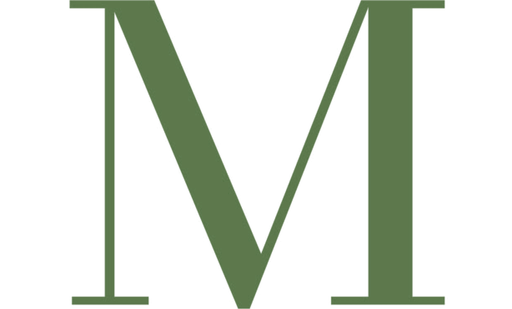
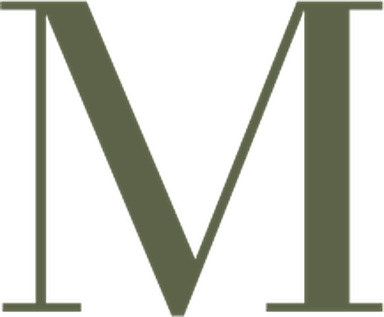
Marca: logotipo oficial e mudanca de nome para Multifuturo Propriedades
O cliente confirmou que o nome comercial passa a ser 'Multifuturo Propriedades'
e enviou o logotipo em PNG com transparencia (o primeiro era CMYK de impressao).

Nome:
- AGENCY_NAME, config/agency.php e os textos de pt e en passam a dizer
  'Multifuturo Propriedades'; nao sobrou nenhuma mencao a 'Multifuturo Imoveis'

Cor:
- o verde oficial e #5D6348. O olive-600 do site era #6B7248 — mais claro e
  mais amarelado. A escala passa a assentar no verde do logotipo, e o contraste
  do texto branco por cima sobe de 4,76:1 para 5,87:1 (melhor, nao pior)
- o painel do backoffice recebe a mesma escala

Logotipo:
- cabecalho: simbolo 'M' ao lado do nome. O logotipo oficial e empilhado e nao
  assenta numa barra de 80px; se o designer tiver versao horizontal, e trocar
  a imagem
- rodape: logotipo completo, invertido para bege sobre o verde escuro
- favicons do site e do painel passam a ser o 'M', incluindo os da raiz de
  public/ que o browser pede por omissao

Teste novo verifica o nome, o simbolo, o favicon e o logotipo do rodape.

diff --git a/resources/css/app.css b/resources/css/app.css
@@ -49,8 +49,9 @@
 /*
  * Tokens de marca. Única fonte de verdade das cores — nos componentes usam-se
  * as utilities geradas (bg-sand-50, text-ink, bg-olive-600…), nunca hex soltos.
- * Pares verificados WCAG AA: ink/sand-50 (14,7:1), sand-50/olive-600 (5,0:1),
- * olive-600/sand-50 (5,0:1), ink-muted/sand-50 (5,1:1). clay-400 NÃO serve para texto (2,9:1).
+ * O olive-600 é o verde exacto do logótipo oficial (#5D6348).
+ * Pares verificados WCAG AA: ink/sand-50 (14,7:1), sand-50/olive-600 (5,9:1),
+ * olive-700/sand-50 (8,0:1), ink-muted/sand-50 (5,1:1). clay-400 NÃO serve para texto (2,9:1).
  */
 @theme {
     --color-*: initial;
@@ -64,9 +65,9 @@
     --color-sand-100: #F2EDE1;
     --color-sand-200: #E5DCC9;
 
-    --color-olive-600: #6B7248;
-    --color-olive-700: #565C39;
-    --color-olive-900: #2F3320;
+    --color-olive-600: #5D6348;
+    --color-olive-700: #4A4F39;
+    --color-olive-900: #282C1E;
 
     --color-ink: #26261F;
     --color-ink-muted: #6F6C60;

diff --git a/app/Providers/Filament/AdminPanelProvider.php b/app/Providers/Filament/AdminPanelProvider.php
@@ -46,26 +46,28 @@ class AdminPanelProvider extends PanelProvider
             ->databaseNotifications()
             ->databaseNotificationsPolling('30s')
             ->login()
-            ->brandName('Multifuturo.')
+            ->brandName('Multifuturo Propriedades')
             ->colors([
                 // Escala azeitona definida à mão: o gerador automático do Filament
-                // produzia tons fluorescentes a partir do nosso hex. Os tons 600/700
-                // são exatamente os da marca (olive-600 / olive-700).
+                // produzia tons fluorescentes a partir do nosso hex. O tom 600 é o
+                // verde exacto do logótipo oficial (#5D6348).
                 'primary' => [
-                    50 => '#F5F6F0',
-                    100 => '#E8EADE',
-                    200 => '#D2D6BF',
-                    300 => '#B4BB99',
-                    400 => '#8F9970',
-                    500 => '#77804F',
-                    600 => '#6B7248',
-                    700 => '#565C39',
-                    800 => '#43482D',
-                    900 => '#2F3320',
-                    950 => '#1B1D12',
+                    50 => '#F4F5EF',
+                    100 => '#E6E8DC',
+                    200 => '#CFD3BC',
+                    300 => '#AFB596',
+                    400 => '#87906C',
+                    500 => '#6C734F',
+                    600 => '#5D6348',
+                    700 => '#4A4F39',
+                    800 => '#393D2B',
+                    900 => '#282C1E',
+                    950 => '#171911',
                 ],
             ])
-            ->favicon(asset('favicon-192.png'))
+            ->brandLogo(asset('images/marca/simbolo.png'))
+            ->brandLogoHeight('2rem')
+            ->favicon(asset('images/marca/favicon-192.png'))
             ->discoverResources(in: app_path('Filament/Resources'), for: 'App\Filament\Resources')
             ->discoverPages(in: app_path('Filament/Pages'), for: 'App\Filament\Pages')
             ->pages([

diff --git a/lang/pt/ui.php b/lang/pt/ui.php
@@ -86,7 +86,7 @@ return [
         'bedrooms' => 'Tipologia',
         'area' => 'Área (m²)',
         'condition' => 'Estado de conservação',
-        'consent_contact' => 'Autorizo a Multifuturo Imóveis a contactar-me sobre este pedido.',
+        'consent_contact' => 'Autorizo a Multifuturo Propriedades a contactar-me sobre este pedido.',
         'consent_marketing' => 'Quero receber novidades e imóveis selecionados por email.',
         'privacy_notice' => 'Os dados são tratados pela :name apenas para responder ao seu pedido, conforme a :link.',
         'privacy_link' => 'política de privacidade',
@@ -209,7 +209,7 @@ return [
         'featured' => 'Imóveis em destaque',
         'featured_all' => 'Ver todos os imóveis',
         'about' => 'Sobre a Multifuturo',
-        'about_text_1' => 'A Multifuturo Imóveis é uma agência de mediação imobiliária licenciada, com uma equipa dedicada a acompanhar cada cliente de forma próxima e transparente.',
+        'about_text_1' => 'A Multifuturo Propriedades é uma agência de mediação imobiliária licenciada, com uma equipa dedicada a acompanhar cada cliente de forma próxima e transparente.',
         'about_text_2' => 'Conhecemos o mercado local, avaliamos com rigor e tratamos de todo o processo — da primeira visita à escritura — para que comprar, vender ou arrendar seja simples e seguro.',
         'about_cta' => 'Conheça a agência',
         'why' => 'Porquê a Multifuturo',

diff --git a/lang/en/ui.php b/lang/en/ui.php
@@ -87,7 +87,7 @@ return [
         'bedrooms' => 'Bedrooms',
         'area' => 'Area (m²)',
         'condition' => 'Condition',
-        'consent_contact' => 'I allow Multifuturo Imóveis to contact me about this request.',
+        'consent_contact' => 'I allow Multifuturo Propriedades to contact me about this request.',
         'consent_marketing' => 'I would like to receive news and selected properties by email.',
         'privacy_notice' => 'Your data is processed by :name solely to answer your request, in line with our :link.',
         'privacy_link' => 'privacy policy',
@@ -210,7 +210,7 @@ return [
         'featured' => 'Featured properties',
         'featured_all' => 'View all properties',
         'about' => 'About Multifuturo',
-        'about_text_1' => 'Multifuturo Imóveis is a licensed estate agency with a team dedicated to supporting every client closely and transparently.',
+        'about_text_1' => 'Multifuturo Propriedades is a licensed estate agency with a team dedicated to supporting every client closely and transparently.',
         'about_text_2' => 'We know the local market, we value with rigour, and we handle the whole process — from the first viewing to the deed — so that buying, selling or renting is simple and safe.',
         'about_cta' => 'Meet the agency',
         'why' => 'Why Multifuturo',

diff --git a/resources/views/components/site/header.blade.php b/resources/views/components/site/header.blade.php
@@ -11,8 +11,15 @@
 @endphp
 <header class="border-b border-sand-200 bg-sand-50" x-data="{ open: false }" @keydown.escape.window="open = false">
     <div class="container-site flex h-20 items-center justify-between gap-8">
-        <a href="{{ route('home') }}" class="font-serif text-2xl font-normal tracking-tight text-ink" aria-label="{{ config('agency.name') }}">
-            Multifuturo<span class="text-olive-600">.</span>
+        {{-- O logótipo oficial é empilhado (M sobre o nome) e não assenta numa
+             barra de 80px: aqui usa-se o símbolo ao lado do nome. Se o designer
+             tiver uma versão horizontal, é trocar esta imagem. --}}
+        <a href="{{ route('home') }}" class="flex items-center gap-3 text-ink" aria-label="{{ config('agency.name') }}">
+            <img src="{{ asset('images/marca/simbolo.png') }}" alt="" width="384" height="317"
+                 class="h-9 w-auto sm:h-10">
+            <span class="font-serif text-base leading-tight tracking-[0.14em] uppercase sm:text-lg">
+                Multifuturo<span class="block text-[0.62em] tracking-[0.2em] text-olive-600">Propriedades</span>
+            </span>
         </a>
 
         <nav class="ml-auto hidden items-center gap-8 lg:flex" aria-label="{{ __('ui.nav.main') }}">

diff --git a/tests/Feature/LegalTest.php b/tests/Feature/LegalTest.php
@@ -9,7 +9,7 @@ use Illuminate\Support\Facades\Blade;
 
 beforeEach(function () {
     config([
-        'agency.name' => 'Multifuturo Imóveis Lda',
+        'agency.name' => 'Multifuturo Propriedades',
         'agency.ami' => '12345',
         'agency.address' => 'Rua Exemplo 1, 2750-000 Cascais',
         'agency.email' => 'geral@example.test',
@@ -106,4 +106,21 @@ it('a versão da política acompanha a alteração do texto', function () {
     expect(config('agency.privacy_policy_version'))->toBe('2026-08-24');
 
     $this->get(route('privacy'))->assertOk()->assertSee('2026-08-24');
+});
+
+it('o site usa o nome e o logótipo oficiais', function () {
+    config(['agency.name' => 'Multifuturo Propriedades']);
+
+    $html = $this->get(route('home'))->assertOk()->getContent();
+
+    // Cabeçalho: símbolo da marca e o nome novo; nada do wordmark antigo.
+    expect($html)->toContain('images/marca/simbolo.png')
+        ->toContain('Propriedades')
+        ->not->toContain('Multifuturo Imóveis');
+
+    // Favicon é o "M" da marca.
+    expect($html)->toContain('images/marca/favicon.png');
+
+    // Rodapé: logótipo completo.
+    expect($html)->toContain('images/marca/logotipo.png');
 });

diff --git a/resources/views/components/site/footer.blade.php b/resources/views/components/site/footer.blade.php
@@ -12,7 +12,12 @@
 <footer class="mt-24 bg-olive-900 text-sand-100">
     <div class="container-site grid gap-12 py-16 md:grid-cols-4">
         <div class="md:col-span-2">
-            <a href="{{ route('home') }}" class="font-serif text-2xl text-sand-50" aria-label="{{ $agency['name'] }}">Multifuturo<span class="text-clay-400">.</span></a>
+            {{-- No rodapé há altura para o logótipo completo. A imagem é verde
+                 sobre fundo escuro: leva um filtro para ficar em bege claro. --}}
+            <a href="{{ route('home') }}" class="inline-block" aria-label="{{ $agency['name'] }}">
+                <img src="{{ asset('images/marca/logotipo.png') }}" alt="{{ $agency['name'] }}"
+                     width="588" height="540" class="h-24 w-auto brightness-0 invert opacity-90">
+            </a>
             <p class="mt-4 max-w-sm text-sm leading-relaxed text-sand-200">
                 {{ $agency['name'] }}
                 @if ($agency['address'])<br>{{ $agency['address'] }}@endif

diff --git a/resources/views/components/layouts/app.blade.php b/resources/views/components/layouts/app.blade.php
@@ -57,9 +57,10 @@
     <meta property="og:image" content="{{ $ogImage }}">
     <meta name="twitter:card" content="summary_large_image">
 
-    <link rel="icon" href="{{ asset('favicon.ico') }}" sizes="32x32">
-    <link rel="icon" href="{{ asset('favicon-192.png') }}" type="image/png" sizes="192x192">
-    <link rel="apple-touch-icon" href="{{ asset('apple-touch-icon.png') }}">
+    <link rel="icon" href="{{ asset('images/marca/favicon.png') }}" type="image/png" sizes="32x32">
+    <link rel="icon" href="{{ asset('images/marca/favicon-192.png') }}" type="image/png" sizes="192x192">
+    <link rel="icon" href="{{ asset('images/marca/favicon-512.png') }}" type="image/png" sizes="512x512">
+    <link rel="apple-touch-icon" href="{{ asset('images/marca/favicon-180.png') }}">
     <link rel="preload" href="{{ asset('fonts/fraunces-latin.woff2') }}" as="font" type="font/woff2" crossorigin>
     <link rel="preload" href="{{ asset('fonts/inter-latin.woff2') }}" as="font" type="font/woff2" crossorigin>
 

diff --git a/config/agency.php b/config/agency.php
@@ -5,7 +5,7 @@
 | Dados da agência
 |--------------------------------------------------------------------------
 |
-| Identificação comercial da Multifuturo Imóveis Lda usada em rodapé, meta
+| Identificação comercial da Multifuturo Propriedades usada em rodapé, meta
 | tags, JSON-LD e emails. Tudo vem do .env.
 |
 | O número AMI é OBRIGATÓRIO por lei em toda a comunicação comercial de
@@ -16,7 +16,7 @@
 
 return [
 
-    'name' => env('AGENCY_NAME', 'Multifuturo Imóveis Lda'),
+    'name' => env('AGENCY_NAME', 'Multifuturo Propriedades'),
 
     // Licença AMI (ex.: "AMI 12345"). Só o número; o prefixo é aplicado na view.
     'ami' => env('AGENCY_AMI'),
